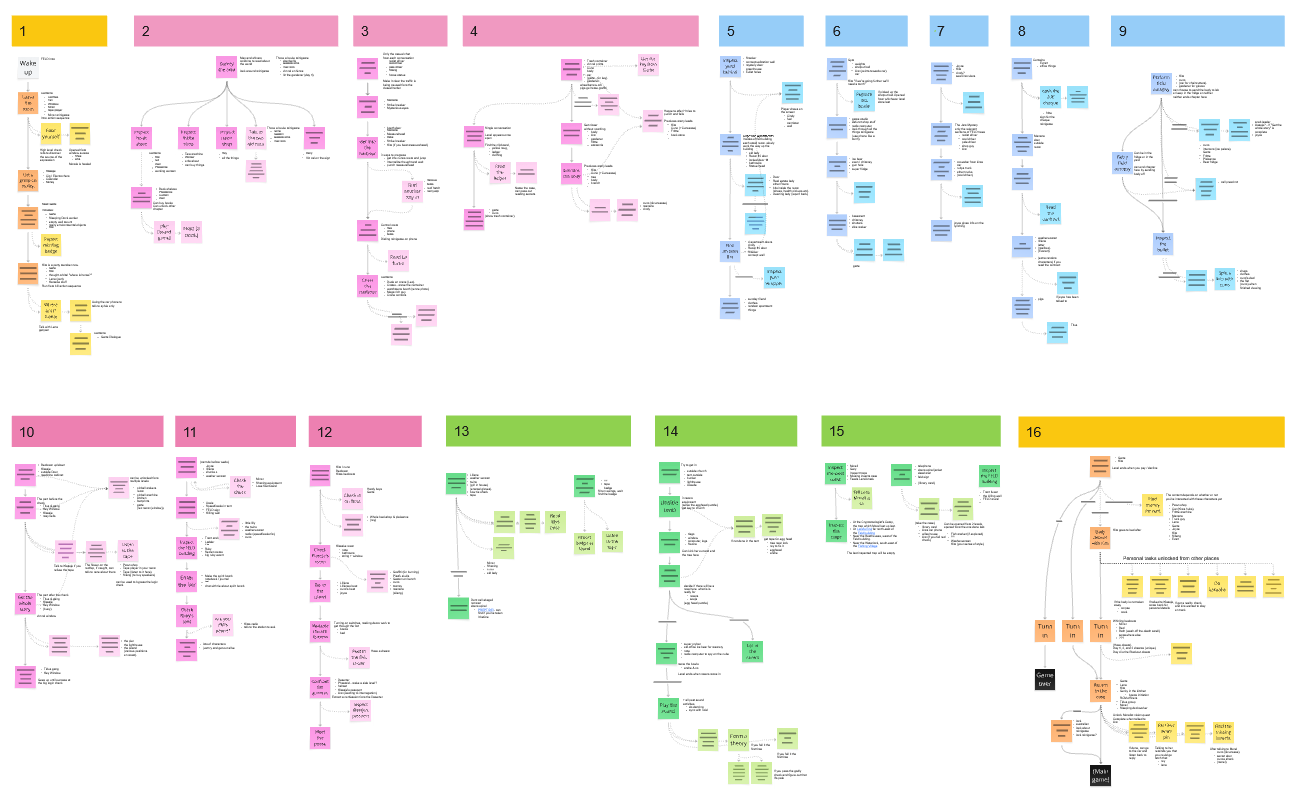
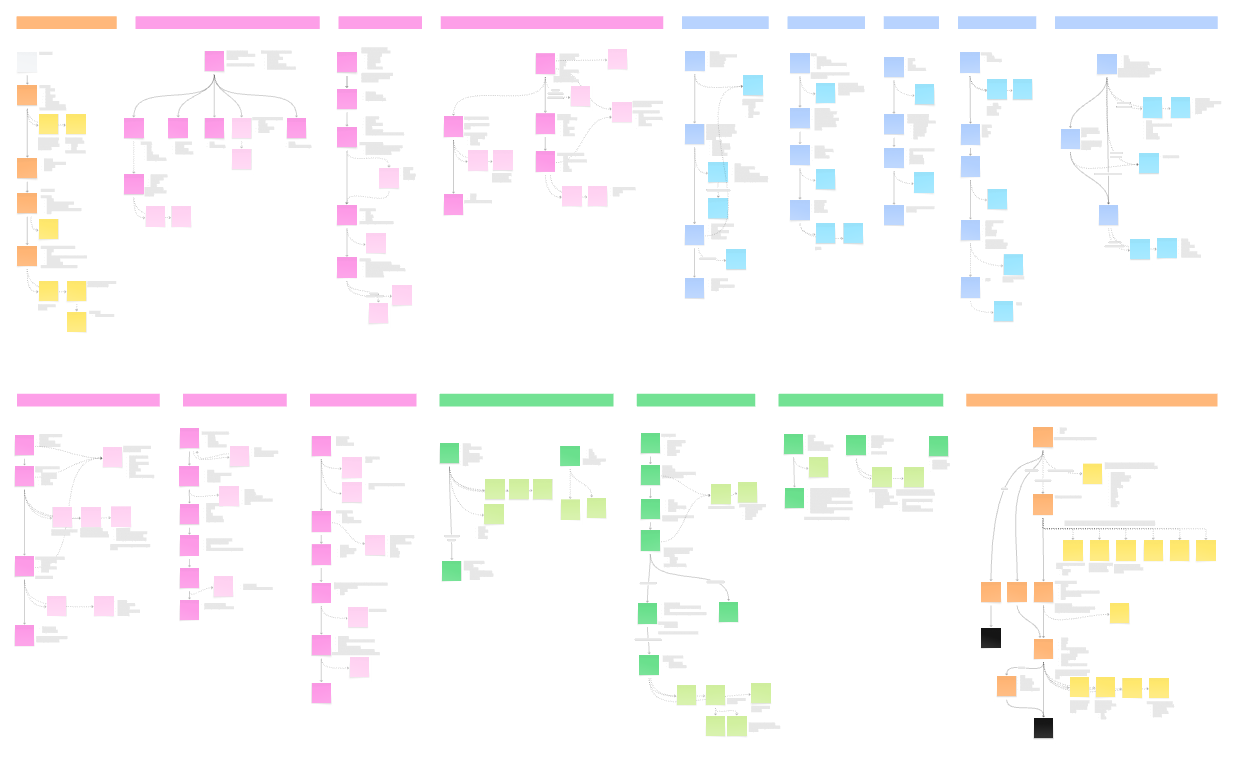
update m0

diff --git a/portfolio/disco-elysium-mobile.html b/portfolio/disco-elysium-mobile.html
@@ -76,7 +76,24 @@ layout: default
 </div>
 
 <div class="wide-pic-holder" style="filter: drop-shadow(3px 10px 10px #22222254);">
-	<img alt="zero parades utility map" src="/images/portfolio/m0_phone_games.png">
+	<img alt="disco mobile target games research" src="/images/portfolio/m0_phone_games.png">
+</div>
+
+
+
+
+<div class="center-col">
+	<div class="mobile-sidepad">
+	<h5>Defining the Concept</h5>
+
+	<p>
+	As one of the key goals is to deliver Disco Elysium to a wider audience, I created personas for our expanded target player profiles. In identifying player needs, I came to the conclusion that the most suitable format would be something more like an interactive graphic novel than an open world exploration game.
+	<br><br>
+	In terms of design changes, it was important to me that we stay true to Disco Elysium’s artistic vision, and keep it free of the kinds of dark patterns you'd expect to find on mobile games. I wanted to change the format as little as possible, and let the art and writing speak for themselves. We would offer the player a premium experience, with a free demo so they understood what were buying.
+	<br><br>
+	As for the visuals, I wanted to keep Disco Elysium's painterly aesthetic; expand it out of the portraits and into the world itself. All art would have a consistent fidelity, and fit the style of presentation. The film tape motif lent itself well to being thematically illustrative of a comic, so I wanted to lean into this aspect. 
+	</p>
+	</div>
 </div>
 
 
@@ -86,12 +103,34 @@ layout: default
 
 
 
+<div class="center-col">
+	<div class="mobile-sidepad">
+	<h5>Redesigning the Format</h5>
 
+	<p>
+	Instead of an open world of tasks for the player to travel between, the game would be a collection of chapters and levels to pick from. Each level would contain all the relevant characters and locations to explore, and have the same task reframed as a goal. This meant that the player would still gets the freedom to pursue the most interesting thread, but there also are several benefits:
+	</p>
+	<ul>
+		<li>By cropping off-topic dialogue inside a level, there would be less narrative disruption, so that they player doesn’t get as lost in the lore.</li>
+		<li>Framing levels via their narrative goals makes progress towards any goal very clear, it’s easy for the player to decide what to do next, and easier to pick up after a break in play.</li>
+		<li>Splitting the game into a level structure allows us to deliver the game in 10 minute portions, with natural stopping points; very suitable for mobile play.</li>
+	</ul>
+	<p>
+	Breaking down all of Disco Elysium into chapters and levels was a massive challenge, and required always keeping in mind how all the narrative events needed to be sequenced.
+	</p>
+	</div>
+</div>
 
 
 
+<div class="wide-pic-holder">
+	<img alt="disco mobile early chapter map" src="/images/portfolio/m0_chapters_early.png">
+</div>
 
 
+<div class="wide-pic-holder">
+	<img alt="disco mobile bookshop level" src="/images/portfolio/m0_bookshop_level.png">
+</div>
 
 
 
@@ -99,7 +138,19 @@ layout: default
 
 
 
+<div class="center-col">
+	<div class="mobile-sidepad">
+	<h5>Mobile first interactivity</h5>
 
+	<p>
+	Instead of using buttons or a mouse to select, the controls would be gesture based. The player would swipe up to select and inspect, and swipe sideways to change option or dismiss. Paired with the film tape aesthetic, we ensured the UI had a secondary motion and tilt sensitivity to make it feel like a physical medium. This worked really well for selecting dialogue options and trying skill checks, as it simulated the experience of being on a traditional film editing machine; the UI would slide, spin and latch with momentum.
+	<br><br>
+	As an extra treat, several “minigames” were developed to make use of a phone as the native controller - utilizing the gyroscope to look around 360 degree photospheres, or drawing on the whole touch screen. 
+	<br><br>
+	To ensure that any player could use it, all of these mobile style UX patterns could be changed to simple button inputs in the options menu. 
+	</p>
+	</div>
+</div>
 
 
 
@@ -108,126 +159,6 @@ layout: default
 
 
 
-
-
-
-
-
-
-
-
-
-
-
-
-
-
-
-
-
-
-
-
-
-
-
-
-
-
-
-
-<h5>The Challenge</h5>
-
-The project began with deducing the most suitable way to bring Disco Elysium to mobile, enabling those without PC's and consoles to experience the story. Disco Elysium has over 1XXXXXX words, fully voice acted, as well as a soundtrack, however, because of decisions made while developing, we were unable to easily create a direct mobile port.
-
-This restriction opened an opportunity to re-develop Disco Elysium in a format which would be more suitable for mobile play; after all, mobile and PC players need very different things out of how the game is presented and interacted with. Elements of Disco Elysium's features would need to be tailored; 
-	1. Exploration - While PC players will happly spend hours exploring, navigating from A to B in Disco Elysium can take longer than a mobile player would want to spend playing a game for a single sitting. 
-	2. Story - The most important element needed to be kept front and center, but Disco Elysium's story experience is like diving into a box of lego, looking for interesting pieces and thinking about what to make with them. A PC player can casually alt-tab to a walkthrough or wiki and back. However, mobile play doesn't afford this level of patience. The player would need to be more aware of their goal and not be distracted by perihperal information if they are to stay engaged.
-	3. Systems - Some of the systems and menus in Disco Elysuim are farmillar to RPG players, but alien to players of lighter mobile games. Players need to understand the systems at the moment they are relevant, and only with the requred information.
-
-
-for narrative fans, rpg fans, IP fans
-
-
-<h5>Defining the Concept </h5>
-
-After research, I created personas for our target player profiles to see how the game could solve a need and fit into their lifestyle. 
-for developing into rough prototypes.
-
-My goal was to deliver something more like an interactive graphic novel.
-
-
-
-In terms of design changes, it was important to me that the game stay true to it's artistic vision, and kept free of the kinds of dark patterns you'd expect to find on mobile games. We would offer the player a premium experience, with a free demo so they understood what were buying.
-
-I wanted to keep Disco Elysuim's painterly aesthetic; 
-
-while having a consistent fidelity, and fit the style of presentation. 
-With the amount of painting that would be required, I wanted something like concept art - more loose 
-	
-[wolf among us, batman, telltale games] (give more of these)
-
-- defining the concept
-	- fit for mobile
-	- no dark patterns
-	- high art 
-	- keeping what makes the experience, while fitting the format
-
-
-<h5>Team up</h5>
-
-- hiring artists
-Found artists to hire, made test jobs, resulted in the hire of team artist, whom i manages
-
-
-
-<h5>Redesigning the format</h5>
-(the level map)
-Redesigned the open world story into a series of levels, each containing a story goal, to be completed before the next is revealed. considering our audience, i streamlined the mechanics, as to make it easier to dip into the game for short periods. Navagation was removed, as it is a time sink, and hard to navagate on a phone
-Other pilars were the low dissruption (game events shouldn't distract the player from their current goal), as figuring out where to go next should not be the puzzle. 
-
-Broke down all the disco content into descrete levels, more suitable for mobile. short play time, easy to monetize without being intrusive
-
-X. splitting up a list of dialogue options to viewing an option at a time worked to the strengths of the writing, as each option was like a punchline to the situation.
-
-
-(sample of level map)
-
-
-<h5>Mobile first interactivity</h5>
-swiping directions to initiate actions
-- rolling dice by swiping up
-
-- developing minigames
-- making a 360 mockup in unity
-
-
-
-
-<h5>Content development</h5>
-
-- storyboarding, animation
-
-
-- level design
-	- creating briefs for artists
-	- creating art guides
-
--reviewing with artists
-
-- effects mockups
-
-- interaction design
-
-- high fideltiy mockups
-
-
-
-<h5>Testing</h5>
-
-- direct external UX texting 
-	- profiling for testers
-	- interview questions and prompts
 
 
 